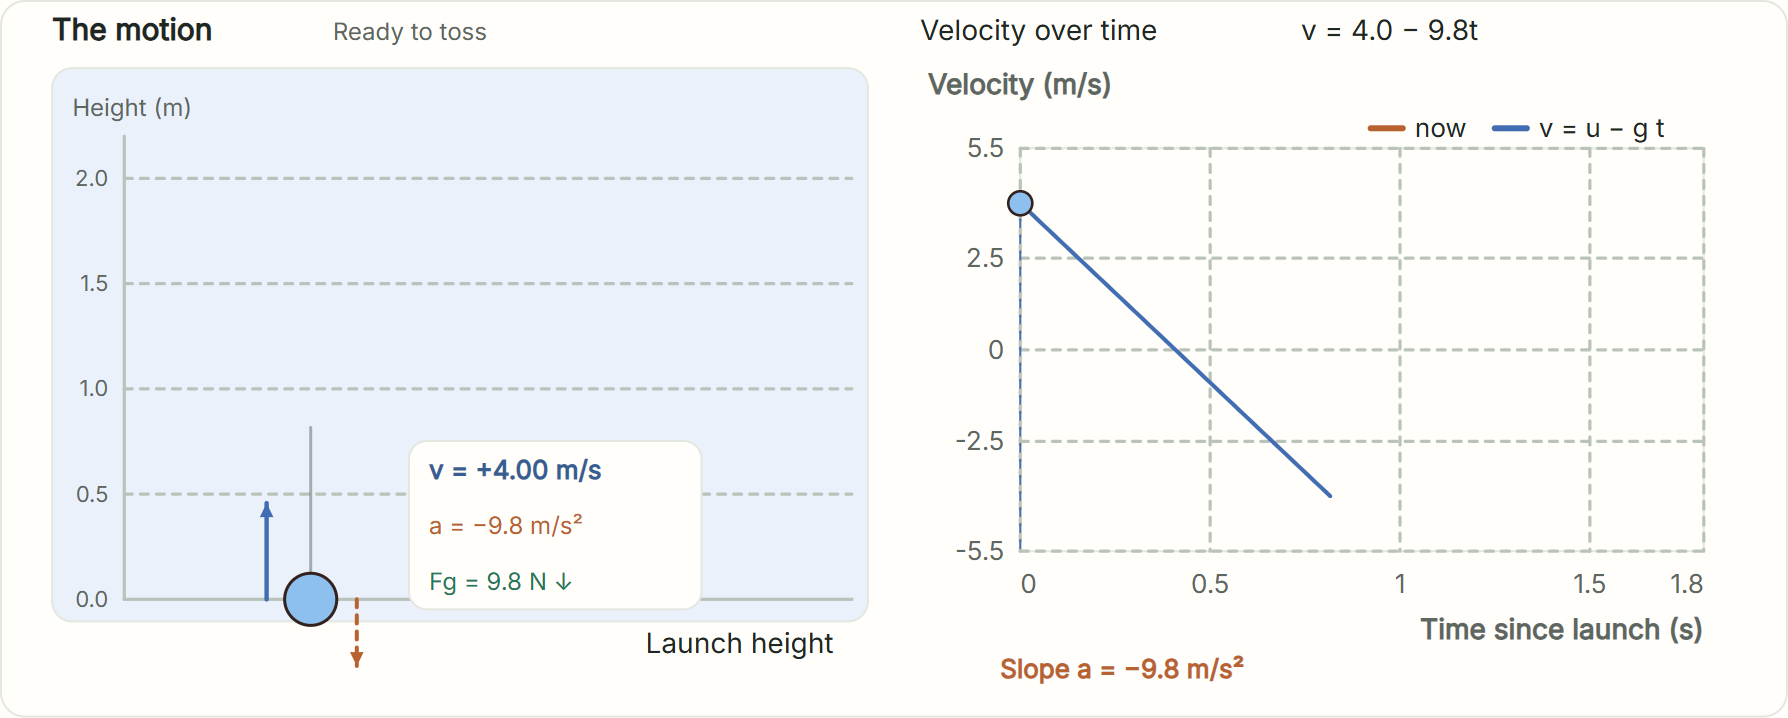
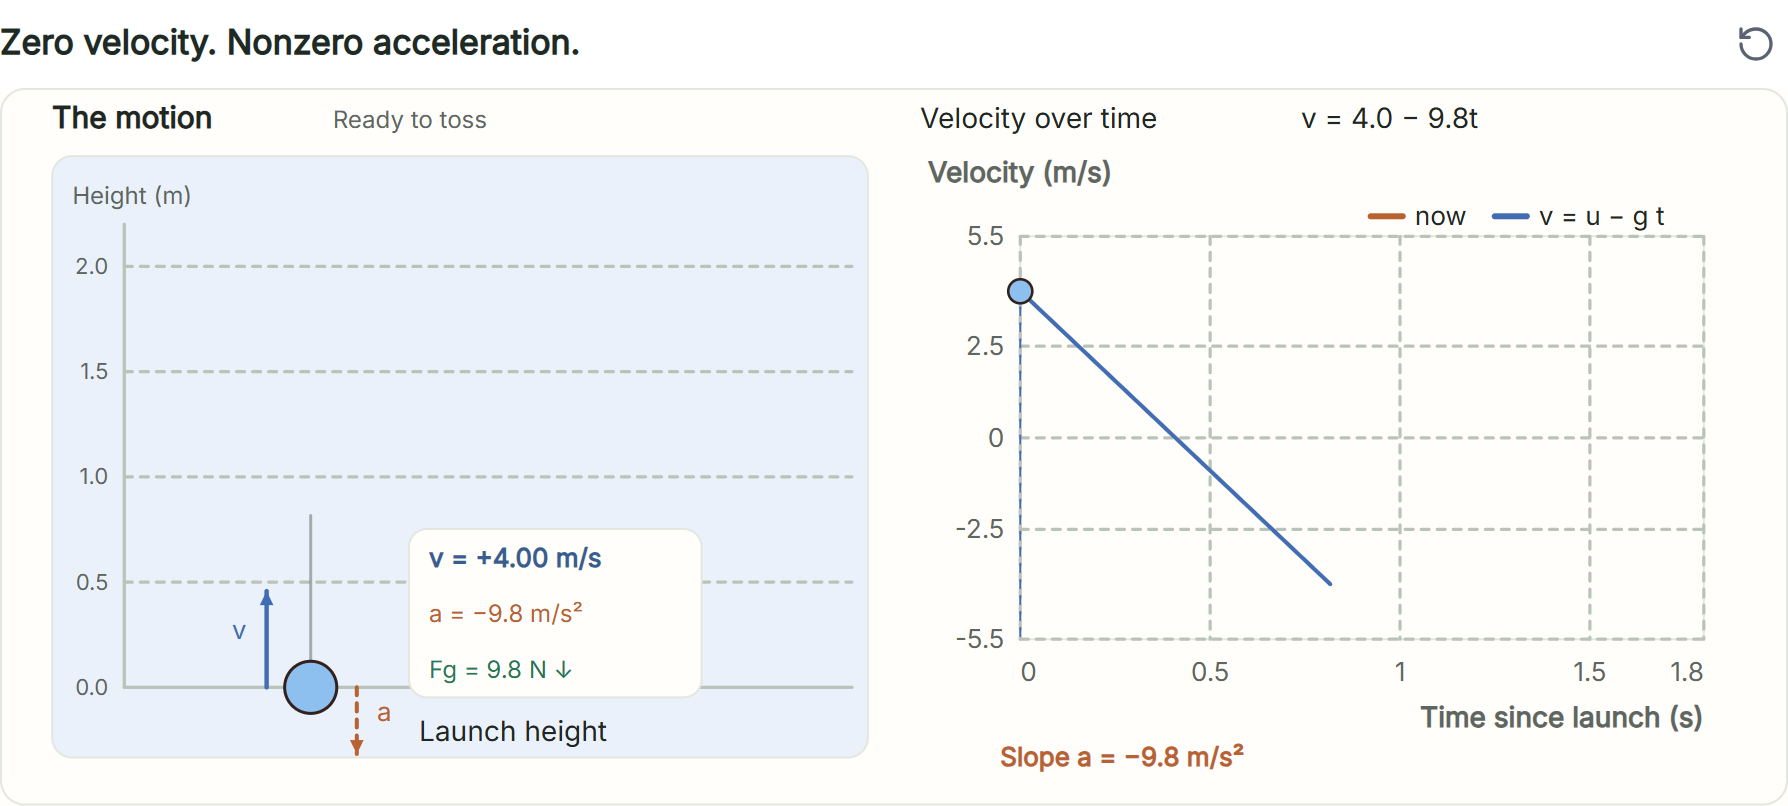
interact evidence: D1 rerun after the lane rule fix and the heading row (v and a letters and Launch height inside the lane, Reset in the heading), README table updated

diff --git a/docs/features/interact/evidence/2026-11-13-codex-match/README.md b/docs/features/interact/evidence/2026-11-13-codex-match/README.md
@@ -1,18 +1,19 @@
 # Codex match: the look of the three generated scenes next to Codex's three cards (2026-11-13)
 
 Offline: no model call, no deploy, no app. Left, Codex's reference card (`docs/features/interact/references/<depth>-toss-and-drop.html`, its whole `.experiment`: scene, transport, controls).
-Right, **only the scene frame** of the scripted sdk-8 program of the same plan (`packages/web/src/interact-toss-programs.js`), drawn by the real `Frame` of `AnimatedScene.jsx` in interact mode.
-The card chrome (the heading row with the state at the right, the Reset icon, the transport and the controls) is a separate, much smaller change and is not drawn on the right: do not read
-"no transport" as a defect of the scene.
+Right, the **scene frame** of the scripted sdk-8 program of the same plan (`packages/web/src/interact-toss-programs.js`), drawn by the real `Frame` of `AnimatedScene.jsx` in interact mode, under the card's
+**heading row** (the plan title at the left and the real `ResetButton` at the right; the static page has no Tailwind, so the row's size, colour and spacing are stand-in CSS for `ProgramScene.jsx`'s classes).
+The transport and the controls are not drawn on the right: do not read "no transport" as a defect of the scene. After the 12:45 fixes (the layout rule skips a lane; the heading row replaces the corner Reset) the
+`v` and `a` letters and `Launch height` are back inside the lane.
 
 Regenerate: `node scripts/interact/render-look.mjs` from the repo root (headless Chrome, 1000 px viewport, device scale 2, Codex at its default state, after `At top`, and for Standard 0.10 s after the top;
 ours at the same launch speed 4.0 m/s, gravity 9.8 m/s^2, mass 1.0 kg and the same elapsed times, at the width of the Codex `.experiment`, 894 px; Inter from the Codex page, theme variables from `index.css`).
 
 | Depth | Codex (default state) | Ours (default state) | What still differs |
 |---|---|---|---|
-| Overview | ![](overview-codex.png) | ![](overview-ours.png) | **Renderer / SDK limit:** the heading row (title, state at the right) is inside the frame at the lane's top left, the state not right-aligned; the ghost ball is a faint filled disc, not a dashed outline; guide and floor lines are one ink grey (Codex: light wire grey, dashed guide); `Launch height` is 14 px ink, Codex 13 px muted; the reading is a white card with fixed 28 px rows (Codex: bare text on the lane, state 17 px bold). **Program choice:** no `Motion` label on the blue arrow (a label inside a lane fails the layout rule `text-box`, see below), `Launch height` sits below the lane because inside it the callout card collides with it. **Not done:** nothing in the scene; the chrome row, Reset, transport and slider are outside this change. |
-| Standard | ![](standard-codex.png) | ![](standard-ours.png) | **Renderer / SDK limit:** the height axis, ticks and dashed grid are drawn inside each lane (Codex: a gutter left of the tinted box); lane headings are title then state at the left (Codex: state right-aligned, a shared `Toss and drop` heading); gate strokes are black and 22 px long when open (Codex: short grey strokes); the ghost is a filled disc; the zero-velocity mark is a ringed dot; callout line 2 is always orange even when `a = 0.0` (Codex: grey); vector `v`, `a` letters absent (below). **Program choice:** no `v` and `a` letters beside the arrows; no blue dashed apex line across the lane (a frame line cannot be blue: ink, or a role hue that is not this blue); `Launch height` moved to the right below the lane, because the falling `v` arrow runs through the left side. **Not done:** nothing in the scene. |
-| Deep | ![](deep-codex.png) | ![](deep-ours.png) | **Renderer / SDK limit:** plot ticks are the written plot's own (0, 0.5, 1, 1.5, 1.8 and -5.5 to 5.5 in 2.5s; Codex 0.3 s steps and -4 to 4 in 2s), titles bold, a legend row (Codex none) whose `now` swatch is orange while the dot is blue, a heavier dashed grid; the lane axis is inside the lane. **Program choice:** two series only, so no blue trace up to now, no orange local slope segment, no `v = ...` label beside the marker and no `At the top` label; `Velocity over time` and `v = 4.0 - 9.8t` are plain 14 px text above the plot (Codex: 15 px bold, equation italic at the right); no `v` and `a` letters on the ball arrows. **Not done:** the third series (the slope segment) would fit the sdk; left out because the brief names two series. |
+| Overview | ![](overview-codex.png) | ![](overview-ours.png) | **Renderer / SDK limit:** the heading row (title, state at the right) is inside the frame at the lane's top left, the state not right-aligned; the ghost ball is a faint filled disc, not a dashed outline; guide and floor lines are one ink grey (Codex: light wire grey, dashed guide); `Launch height` is 14 px ink, Codex 13 px muted; the reading is a white card with fixed 28 px rows (Codex: bare text on the lane, state 17 px bold). **Back after the layout fix:** the `v` letter left of the blue arrow, the `a` letter right of the orange one, `Launch height` at the bottom of the lane under the ground line (lane 30 px taller, to hold it). **Program choice:** no `Motion` label on the blue arrow (the reading is the callout's first line); `Launch height` is at the lane's left under the ground line (Codex x 36). **Not done:** the transport and slider are outside this change. |
+| Standard | ![](standard-codex.png) | ![](standard-ours.png) | **Renderer / SDK limit:** the height axis, ticks and dashed grid are drawn inside each lane (Codex: a gutter left of the tinted box); lane headings are title then state at the left (Codex: state right-aligned, a shared `Toss and drop` heading); gate strokes are black and 22 px long when open (Codex: short grey strokes); the ghost is a filled disc; the zero-velocity mark is a ringed dot; callout line 2 is always orange even when `a = 0.0` (Codex: grey). **Back after the layout fix:** the `v` letter (left of its arrow) and the `a` letter (right of its arrow) in both lanes, `Launch height` inside each lane at the bottom (lanes 24 px taller to hold it). **Program choice:** no blue dashed apex line across the lane (a frame line cannot be blue: ink, or a role hue that is not this blue); `Launch height` sits right of the ball column, not at Codex's left (x 48), because the falling `v` arrow at the end of the toss runs down through the left side and a 13 px label there fails `text-arrow`/`text-text`/`text-circle` (the label is wider than Codex's 11 px one). **Not done:** nothing in the scene. |
+| Deep | ![](deep-codex.png) | ![](deep-ours.png) | **Renderer / SDK limit:** plot ticks are the written plot's own (0, 0.5, 1, 1.5, 1.8 and -5.5 to 5.5 in 2.5s; Codex 0.3 s steps and -4 to 4 in 2s), titles bold, a legend row (Codex none) whose `now` swatch is orange while the dot is blue, a heavier dashed grid; the lane axis is inside the lane. **Program choice:** two series only, so no blue trace up to now, no orange local slope segment, no `v = ...` label beside the marker and no `At the top` label; `Velocity over time` and `v = 4.0 - 9.8t` are plain 14 px text above the plot (Codex: 15 px bold, equation italic at the right). **Back after the layout fix:** the `v` letter (when the ball moves) and the `a` letter beside the arrows, `Launch height` inside the lane under the ground line (right of the ball column, as in Standard); the `Fg` reading stays the callout's third line (Codex draws `Fg` as text, not an arrow). **Not done:** the third series (the slope segment) would fit the sdk; left out because the brief names two series. |
 
 More states, same rows:
 
@@ -39,11 +40,12 @@ rule hit at every capture case and probe of the plan (`headlessCaptureCard`), Ov
 
 `text-body` fired 0 times in every run; `text-arrow`, `text-frame` and figure-text rules 0. The only rule that fired is `text-box`.
 
-**A rule and the lane look cannot both be satisfied by a label.** `textBoxes`/`frameOverlaps` treat the lane's own `box` (the object `sdk.panel` returns, which `frame-look.js` draws as the tinted lane) like any
-box: a text object anywhere inside a lane overlaps it (`text-box`, the label's whole width). So every text inside a lane, a vector label (`vec.v.tossL`), `Launch height`, anything, fails the rules; only text
-above or below the lane, a callout (box objects with text, no text object) or a figure passes. The programs therefore carry no vector letters and the callout carries the readings. This is a rule/renderer
-conflict: not loosened here and not worked around in the renderer. A fix on either side (for example, the text rules skipping the lane box that holds a text) would let the Codex `v` and `a` letters come
-back; `interact-toss-programs.test.js` pins the finding so a change shows there.
+**Fixed in the 12:45 brief (`frame-overlap.js`).** `frameOverlaps` no longer counts a lane (`lanesOf`, frame-look.js) or the callout line boxes (`<id>.l0` to `.l3`) of the text being checked as an obstacle for text, so
+text inside a lane passes. Any other box still is an obstacle and a body still is (`text-body`); `frame-overlap-lane.test.mjs` pins the four cases. With the fix the programs carry the `v` / `a` letters and
+`Launch height` again. The 12:45 programs, measured over the grid of speeds, gravities, masses and times of `interact-toss-programs.test.js` (every capture case, probe and grid state): **0 hits of every rule,
+`text-body` included, in all three programs.** While placing the letters and the label (before the final positions) the rules that fired were `text-line` (a `v` letter 6.8 px from the Overview ground line at
+`u = 2`: the program now keeps a letter 14 px off the line, moving along its own arrow) and, for `Launch height` at Codex's left, `text-circle`, `text-arrow` and `text-text` (the falling `v` arrow and its letter
+run down through that label at the end of the toss: the label moved right of the ball column). `text-body` still never fired.
 
 ## Programs and checks
 
